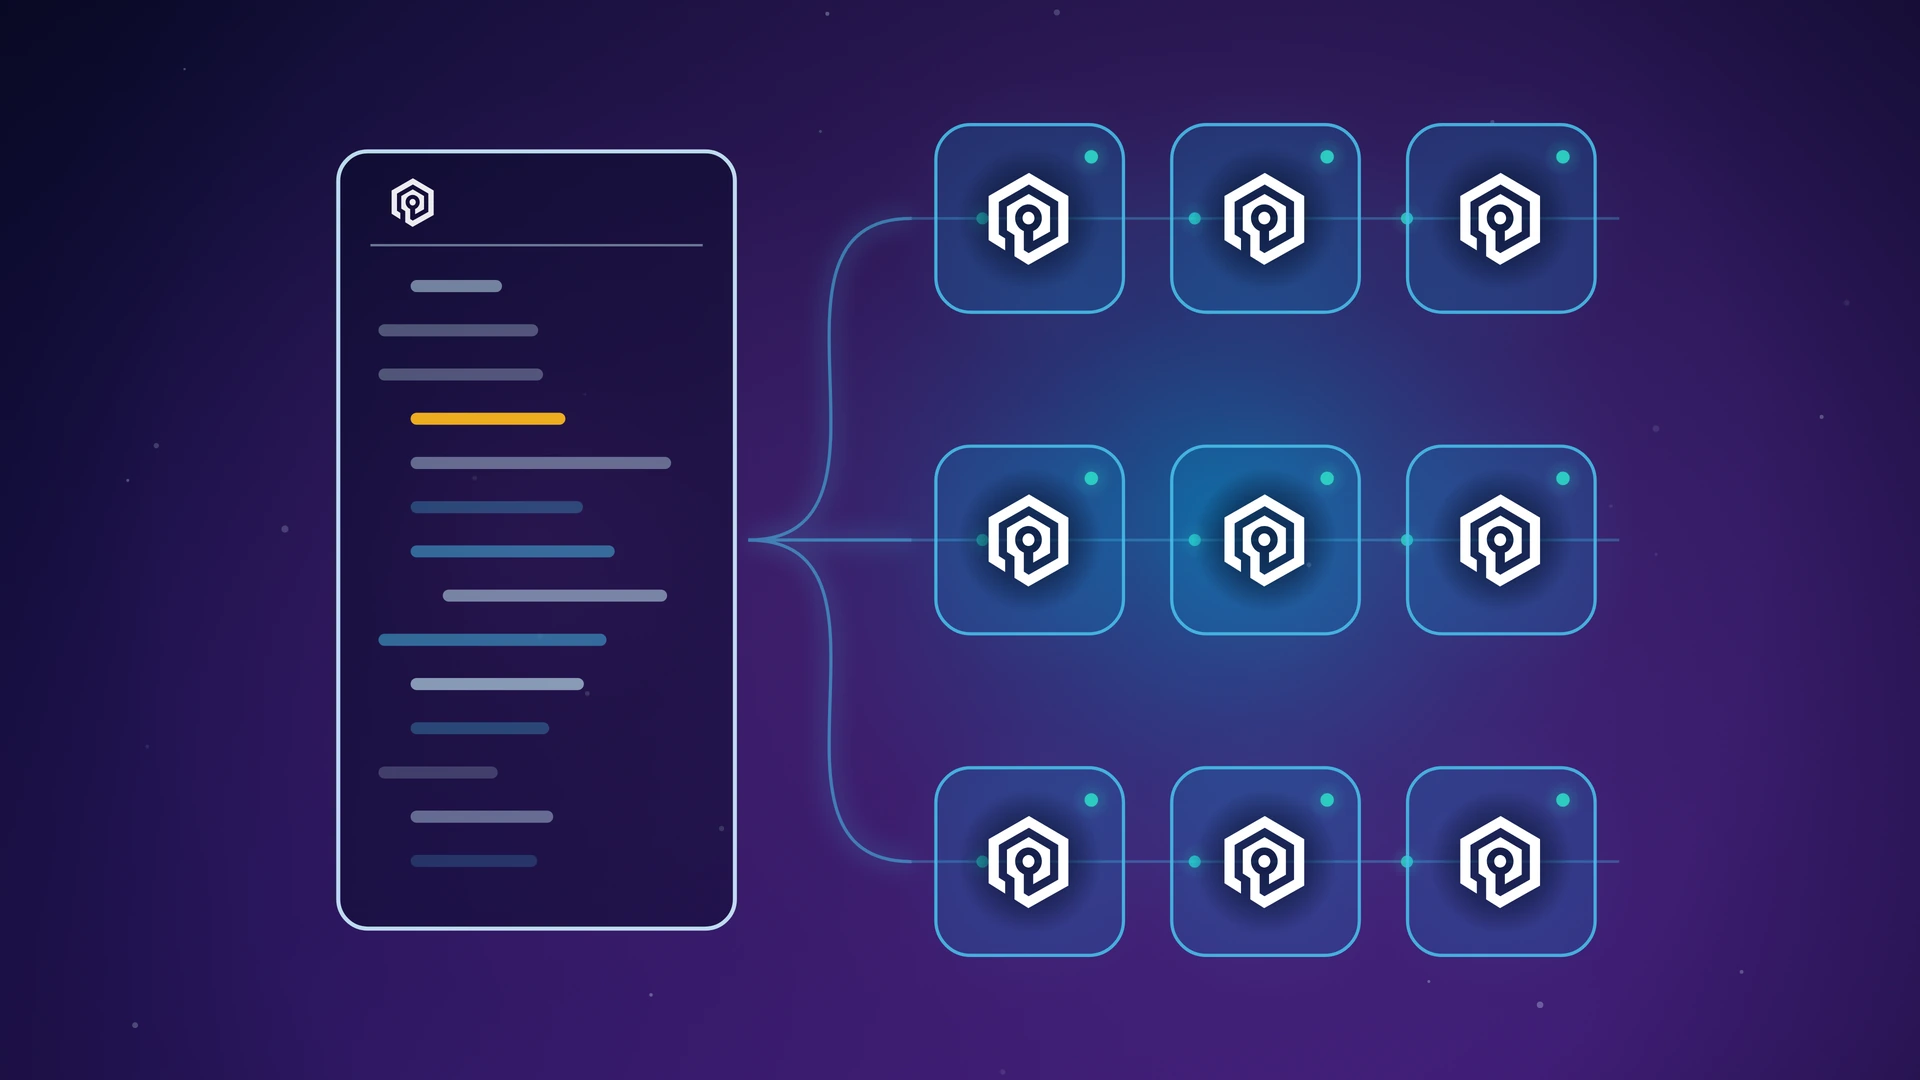
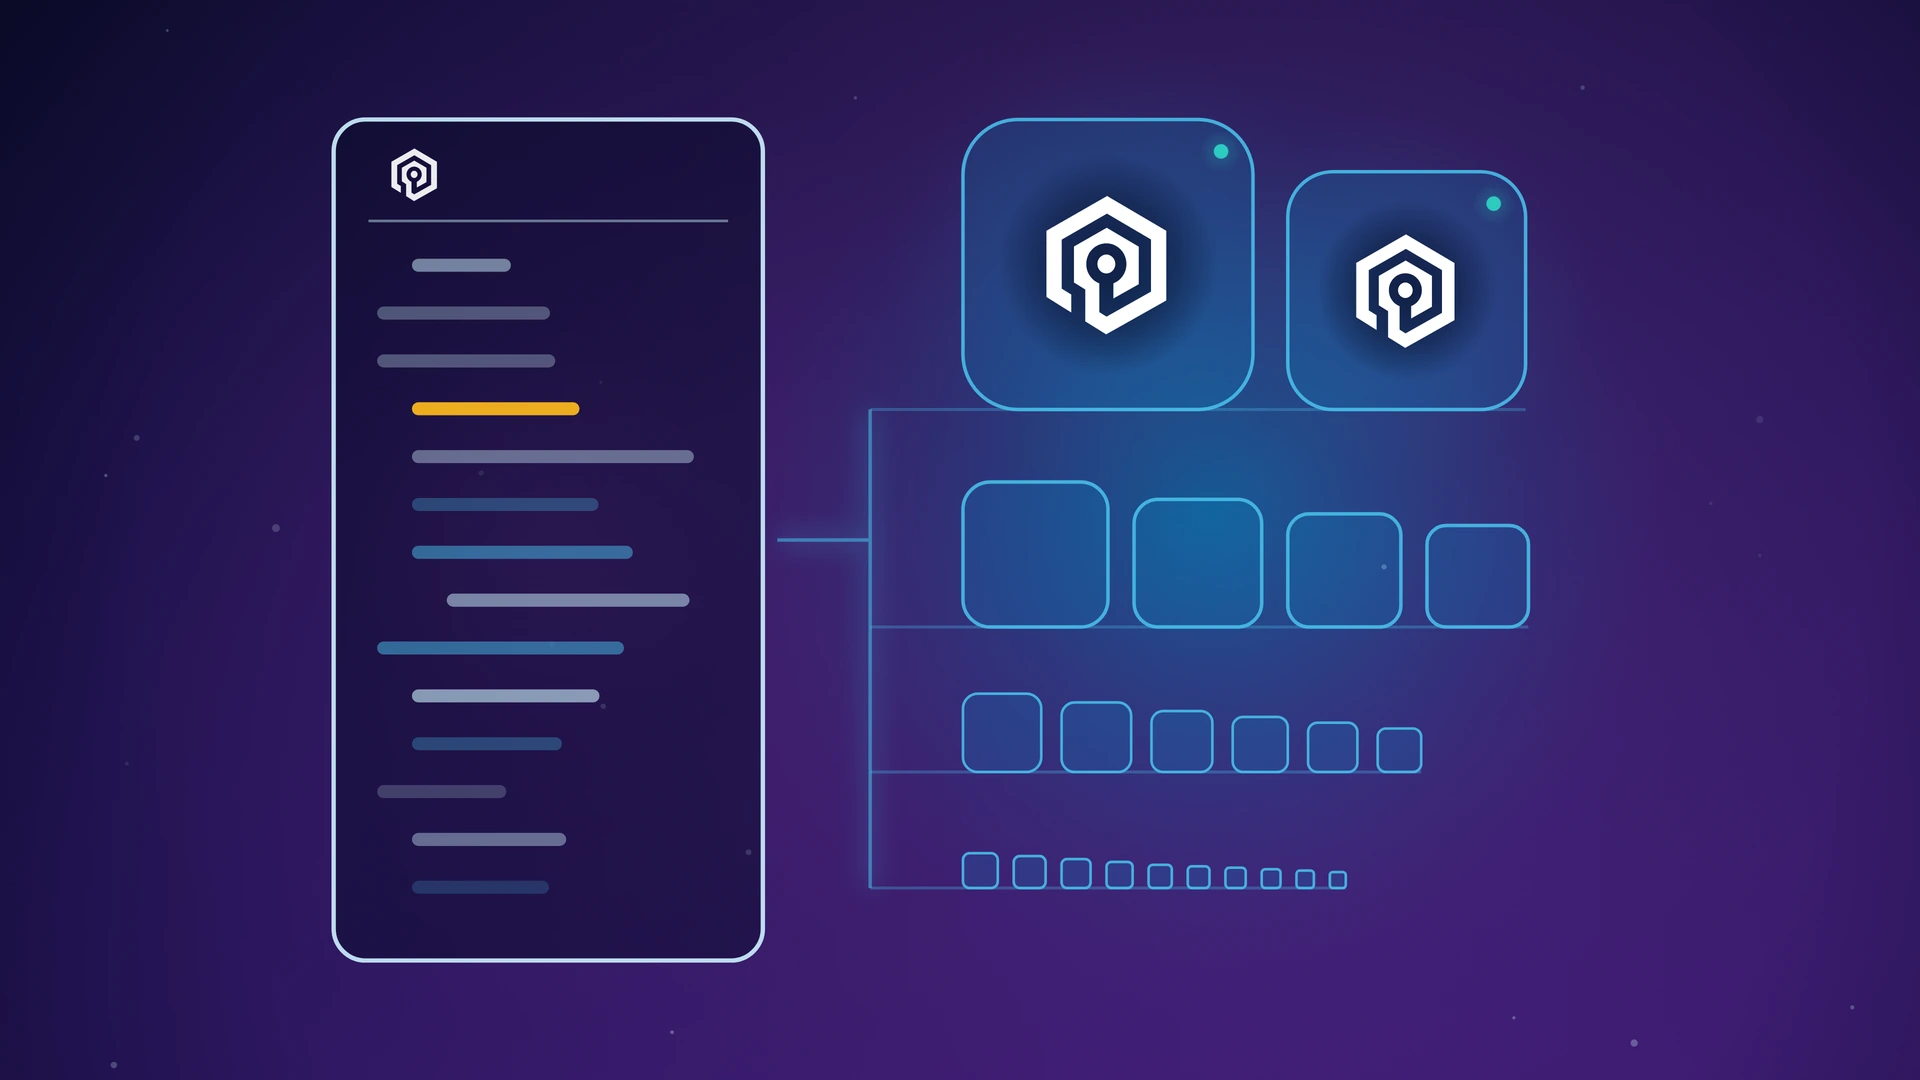
Redraw k8s-spec-fanout as items ranked by size
Requested change: items by decreasing size with a few very large outliers
near the top, still abstract. The 3x3 grid of identical instances becomes
four tiers on their own baselines, 200 and 164 on top and then a drop
straight to 100 so the top two read as outliers rather than as the head of
a smooth ramp, trailing into a tail of ten small ones. Every item is the
same rounded square at a different size, so the tail reads as more of the
same thing.

Only the top tier carries the mark now; marking the 100 as well blurred
the outlier story. The four fan curves that bunched and crossed just
outside the panel are replaced by a stub into a vertical bus with the tier
baselines running off it.

The name no longer describes what this draws and wants changing.

Changed region(s): [[0.4375, 0.0917, 0.8438, 0.6111], [0.1562, 0.0917, 0.4062, 0.9167], [0.4375, 0.6417, 0.8438, 0.8861]]

diff --git a/README.md b/README.md
@@ -40,7 +40,7 @@ can't drift, and regenerating is a no-op diff.
 | `bundle-one-install` | A single strap arriving at the mark and branching into the same four modules | valkey-bundle, one install that delivers several capabilities |
 | `tooling-stack` | Identical primitives at the base, differently detailed tools resting on them, the mark on top | Server primitives, what gets built on them, extensibility |
 | `data-structures-grid` | Six value types, one per cell on an even 3x2 grid: byte run, list, set, hash, sorted set, bitmap | Type overviews, command surveys, what Valkey stores |
-| `k8s-spec-fanout` | A declared spec panel fanning out along rails into a grid of identical instances | Helm charts, operators, declarative deployment |
+| `k8s-spec-fanout` | A spec panel fanning out into items ranked by size, two large outliers above a long tail | Size distributions, skew, heavy hitters, long tails |
 | `k8s-desired-count` | Six declared slots, four filled, one rising into place, one still empty | Replica counts, scaling to a desired state, reconciliation |
 | `limits-tight-envelope` | A small box packed edge to edge, pushing out, inside far larger outlines | Constrained hardware, small instances, resource ceilings |
 | `limits-gauge-pinned` | A gauge sweeping into gold and stopping short of a red end zone | Running right up to a limit, headroom, saturation |
